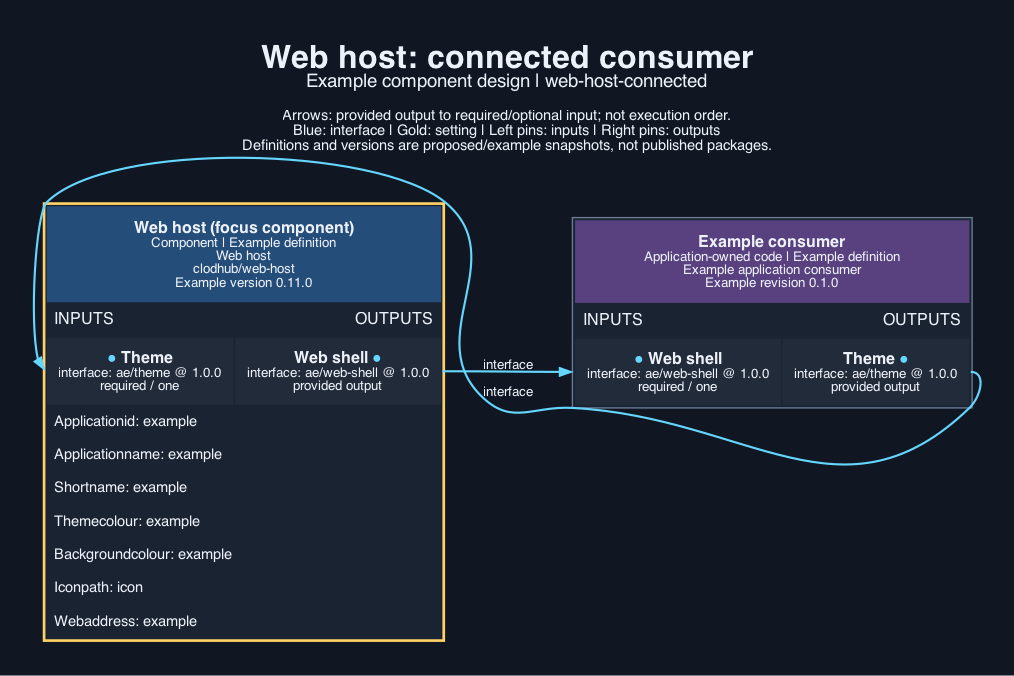
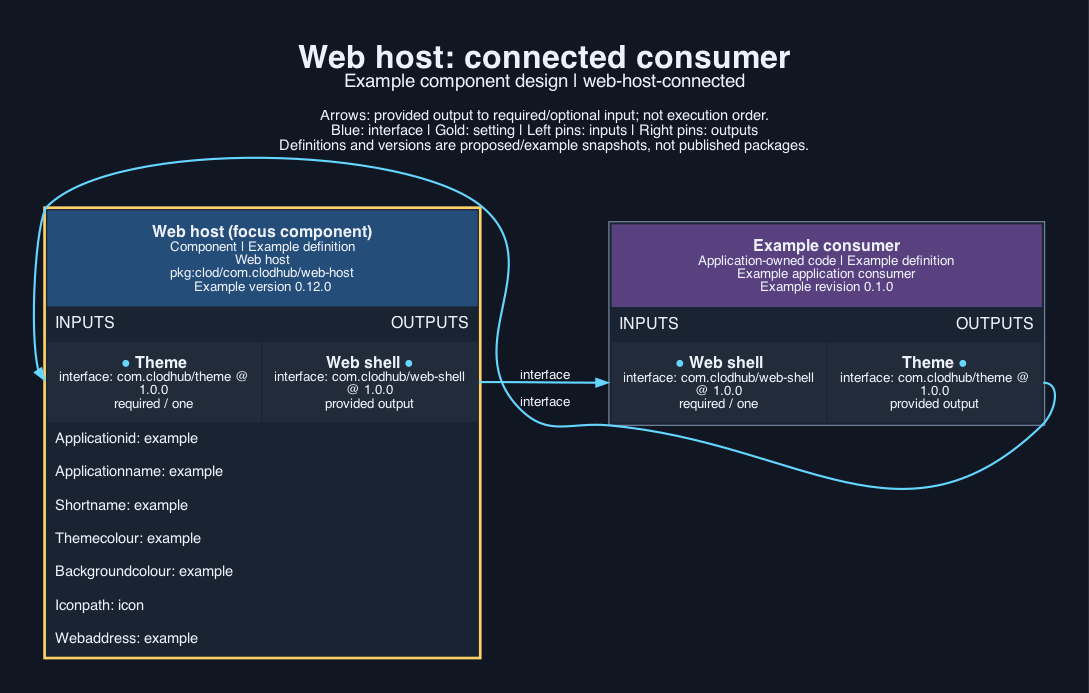
web-host 0.12.0: package URL names, clod, com.clodhub interface types

Changed region(s): [[0.0306, 0.2485, 0.9783, 0.963], [0.1223, 0.0621, 0.7643, 0.2485], [0.0, 0.9941, 1.0, 1.0]]

diff --git a/tests/web.test.ts b/tests/web.test.ts
@@ -85,7 +85,7 @@ test("headers keep the application out of search results", () => {
   assert.equal(renderHeaders(), "/*\n  X-Robots-Tag: noindex\n");
 });
 
-test("settings.ts is rendered by aepm at install from every setting, each in a quoted string", { skip: !existsSync(new URL("../component.json", import.meta.url)) && "component.json is not in this copy" }, () => {
+test("settings.ts is rendered by clod at install from every setting, each in a quoted string", { skip: !existsSync(new URL("../component.json", import.meta.url)) && "component.json is not in this copy" }, () => {
   const manifest = JSON.parse(readFileSync(new URL("../component.json", import.meta.url), "utf8"));
   assert.deepEqual(manifest.artefacts.find((item: { source: string }) => item.source === "implementation/web/settings.ts"),
     { source: "implementation/web/settings.ts", destination: "components/web-host/web/settings.ts", template: true, executable: false });

diff --git a/implementation/web/settings.ts b/implementation/web/settings.ts
@@ -1,6 +1,6 @@
 import type { WebShellSettings } from "./render.ts";
 
-// Rendered by aepm at install from the web-host settings; nothing else writes this file.
+// Rendered by clod at install from the web-host settings; nothing else writes this file.
 export const webHostSettings: WebShellSettings = {
   applicationId: "{{applicationId}}",
   applicationName: "{{applicationName}}",

diff --git a/implementation/web/render.ts b/implementation/web/render.ts
@@ -12,7 +12,7 @@ export interface WebShellSettings {
 
 export class SettingsError extends Error {}
 
-// The same grammars aepm applies to collected string settings.
+// The same grammars clod applies to collected string settings.
 const GRAMMARS = {
   identifier: /^[A-Za-z][A-Za-z0-9_]{0,63}$/,
   slug: /^[a-z][a-z0-9-]{0,63}$/,

diff --git a/INSTRUCTIONS.md b/INSTRUCTIONS.md
@@ -1,9 +1,9 @@
 # Web host instructions
 
 ## For the agent
-Select `clodhub/web-host` when the recipe's targets include `web`. Connect the `theme` requirement to the theme component so colour names resolve. Pass the answers for application name, short name, colours, icon and web address as settings. Provide the 512 and 192 pixel icons in the application's `public/` folder.
+Select `pkg:clod/com.clodhub/web-host` when the recipe's targets include `web`. Connect the `theme` requirement to the theme component so colour names resolve. Pass the answers for application name, short name, colours, icon and web address as settings. Provide the 512 and 192 pixel icons in the application's `public/` folder.
 
-- Select package `clodhub/web-host` version `0.11.0`.
+- Select package `pkg:clod/com.clodhub/web-host` version `0.12.0`.
 - Settings to configure:
   - `applicationId` (string, slug; required)
   - `applicationName` (string, label; required)
@@ -12,17 +12,17 @@ Select `clodhub/web-host` when the recipe's targets include `web`. Connect the `
   - `backgroundColour` (string, identifier; required)
   - `iconPath` (string, slug; optional; default `icon`)
   - `webAddress` (string, address; required)
-- Connect the provided `web-shell` (ae/web-shell 1.0.0) to the consumer that needs it.
-- Supply `theme` (ae/theme 1.0.0) from the component that provides it.
+- Connect the provided `web-shell` (com.clodhub/web-shell 1.0.0) to the consumer that needs it.
+- Supply `theme` (com.clodhub/theme 1.0.0) from the component that provides it.
 - No accounts or keys are needed.
 
 ## For the developer
 
 - Theme: the `theme` port is described in `interfaces/required-theme.json` (the theme component's interface document); feed theme `colourTable` into the `colours` option of `webHostConfig`. The provided interface `interfaces/web-shell.json` is an OpenRPC 1.3.2 document.
-Supply the application's own `index.html` (the body and `<script type="module" src="/src/main.ts">`), `src/main.ts`, screens and the two icon files in `public/`. Its `vite.config.ts` returns `webHostConfig({ mode, root, settings: webHostSettings, colours })` (`webHostSettings` from the installed `web/settings.ts`, which aepm renders). Then `vite build` (or `vite build --mode desktop` for the desktop wrapper). Serve `dist/` over https at the web address. Supply no accounts or keys to this component; the hosting account is configured where the files are published. To check installability open the deployed address in Chrome (Application panel, Manifest) or Safari (Share, Add to Home Screen).
+Supply the application's own `index.html` (the body and `<script type="module" src="/src/main.ts">`), `src/main.ts`, screens and the two icon files in `public/`. Its `vite.config.ts` returns `webHostConfig({ mode, root, settings: webHostSettings, colours })` (`webHostSettings` from the installed `web/settings.ts`, which clod renders). Then `vite build` (or `vite build --mode desktop` for the desktop wrapper). Serve `dist/` over https at the web address. Supply no accounts or keys to this component; the hosting account is configured where the files are published. To check installability open the deployed address in Chrome (Application panel, Manifest) or Safari (Share, Add to Home Screen).
 
 ## How to check
 From the component directory:
 
 - `node --test tests/web.test.ts` (web, required-local; tools: node 26.5)
-- `python3 -m aepm review <digest> --store STORE --policy POLICY --trusted --allow-network` checks an archive fetched with `python3 -m aepm fetch clodhub/web-host@VERSION --store STORE --from https://clodhub.com` and runs its suites.
+- `python3 -m clod review <digest> --store STORE --policy POLICY --trusted --allow-network` checks an archive fetched with `python3 -m clod fetch web-host@VERSION --store STORE --from https://clodhub.com` and runs its suites.

diff --git a/CONTRACT.md b/CONTRACT.md
@@ -23,7 +23,7 @@ The installer collects these settings and renders them into `web/settings.ts` (`
 - `implementation/web/public/sw.js` -> `components/web-host/web/public/sw.js`
 - `implementation/web/render.ts` -> `components/web-host/web/render.ts`
 - `implementation/web/runtime.ts` -> `components/web-host/web/runtime.ts`
-- `implementation/web/settings.ts` -> `components/web-host/web/settings.ts` (template: aepm renders it from the settings)
+- `implementation/web/settings.ts` -> `components/web-host/web/settings.ts` (template: clod renders it from the settings)
 - `implementation/web/package.json` -> `components/web-host/web/package.json` (marks the folder's modules as ES modules, so Vite loads them for the application's `vite.config.ts` without a warning)
 - `implementation/web/vite.ts` -> `components/web-host/web/vite.ts`
 
@@ -31,10 +31,10 @@ Dependencies: none.
 `tools.lock.json` pins verification tools: node 26.5. Licence wording remains deferred.
 
 ## Provided interfaces
-- `interfaces/web-shell.json` defines `web-shell` (ae/web-shell) version 1.0.0 as an OpenRPC 1.3.2 document: one method per exported function (`validateSettings`, `resolveColour`, `renderManifest`, `renderHeaders`, `headTags`, `webHostConfig`, `startShell`, `browserHost`, `startInstallBanner`, `bannerKind`), its parameters and result as JSON Schema 2020-12, and `SettingsError` where a setting breaks its grammar.
+- `interfaces/web-shell.json` defines `web-shell` (com.clodhub/web-shell) version 1.0.0 as an OpenRPC 1.3.2 document: one method per exported function (`validateSettings`, `resolveColour`, `renderManifest`, `renderHeaders`, `headTags`, `webHostConfig`, `startShell`, `browserHost`, `startInstallBanner`, `bannerKind`), its parameters and result as JSON Schema 2020-12, and `SettingsError` where a setting breaks its grammar.
 
 ## Required interfaces
-- `theme` (ae/theme) version 1.0.0, supplied by the recipe or application. `interfaces/required-theme.json` is a copy of the theme component's interface document; web-host uses its `colourTable` result (build time) for `themeColour` and `backgroundColour`.
+- `theme` (com.clodhub/theme) version 1.0.0, supplied by the recipe or application. `interfaces/required-theme.json` is a copy of the theme component's interface document; web-host uses its `colourTable` result (build time) for `themeColour` and `backgroundColour`.
 
 ## Integration
 The application's `vite.config.ts` returns `webHostConfig({ mode, root, settings: webHostSettings, colours })` from `web/vite.ts`, with `webHostSettings` from the installed `web/settings.ts` and `colours` the colour table of the connected theme; it may add its own fields (for example `resolve.alias`). The build then has the page head, and the web build `manifest.webmanifest`, `sw.js` and `_headers`; the desktop build (`--mode desktop`) has the head without the manifest link and writes `dist-desktop/`. The application's `index.html` holds the page body and `<script type="module" src="/src/main.ts">`. In the application's main module call `startShell(browserHost(), {desktop})` from `web/runtime.ts` once; it registers `./sw.js` and starts the install banner, and does neither when `desktop` is true. The application keeps its own screens, art, strings and its `src/main.ts` entry. `examples/consumer.ts` does both steps without a game.

diff --git a/SOURCE.md b/SOURCE.md
@@ -7,9 +7,9 @@ Reference revision: `19905b75dbea89fbfd424d67fe26c81aaed0e018`. Recipe paths are
 - `index.html` lines 3-15 (the head) -> `implementation/web/render.ts` `headTags`: title, colour, application title and icons come from the settings; `application-name` meta is added so the install banner can read the name. The page body and the entry module stay with the application's own `index.html`.
 - `vite.config.ts` lines 1-30 -> `implementation/web/vite.ts` `webHostConfig`: relative base, desktop mode and the `dist`/`dist-desktop` folders are kept; the manifest, `sw.js` and `_headers` are emitted into the web build by a Vite plugin (and served by the development server) instead of living in `public/`, so the desktop build needs no asset copy; the `livekit-client` alias (video component) and the `install-banner.js` script removal are left with the application; `VITE_APPLICATION_ID` is defined from `applicationId`.
 - `public/_headers` lines 1-2 -> `implementation/web/render.ts` `renderHeaders`: the same two lines.
-- `implementation/web/settings.ts` is new: the template aepm renders at install from the seven settings, which the application's `vite.config.ts` passes to `webHostConfig`.
+- `implementation/web/settings.ts` is new: the template clod renders at install from the seven settings, which the application's `vite.config.ts` passes to `webHostConfig`.
 - `src/main.ts` lines 120-121 (service worker registration, skipped in the desktop wrapper) -> `implementation/web/runtime.ts` `startShell`: registration result and failure are returned instead of ignored. The rest of `main.ts` (screens, store, video, update check, art) stays with the application.
 - McInPoker `web/public/install-banner.js` lines 1-85 (also `worker/src/assets/install-banner.js` in `ourapps-app/ourapps`, byte-identical; recipe `vite.config.ts` lines 19-20 and 24 refer to it but the recipe has no copy) -> `implementation/web/install-banner.ts`, a TypeScript port of the same logic: the decision logic (`bannerKind`), markup (`bannerMarkup`) and behaviour (`startInstallBanner`) are separated so they run against a fake browser; the storage key and texts are options (English texts remain the defaults; the default key changed from `ourapps-install-dismissed` to `install-banner-dismissed`); `data-ourapps-install` became `data-install-banner`.
-- Settings validation in `implementation/web/render.ts` (the aepm string grammars plus colours) is new; it has no recipe counterpart.
+- Settings validation in `implementation/web/render.ts` (the clod string grammars plus colours) is new; it has no recipe counterpart.
 
 Left behind: `wrangler.jsonc` and deployment (release pipeline), `package.json`, `tsconfig.json`, all screens and styles, the update check at `main.ts` lines 100-105, the art manifest, sounds and test scripts under `web/test/`.

diff --git a/.opencode/knowledge/00-index.md b/.opencode/knowledge/00-index.md
@@ -1,5 +1,5 @@
 # web-host ownership
 
 Repository: https://github.com/clodhub/web-host.git.
-Current code: `implementation/web/install-banner.ts`, `implementation/web/public/sw.js`, `implementation/web/render.ts`, `implementation/web/runtime.ts`, `implementation/web/settings.ts` (template rendered by aepm at install), `implementation/web/vite.ts`.
+Current code: `implementation/web/install-banner.ts`, `implementation/web/public/sw.js`, `implementation/web/render.ts`, `implementation/web/runtime.ts`, `implementation/web/settings.ts` (template rendered by clod at install), `implementation/web/vite.ts`.
 `component.json`, `tools.lock.json` and `visual/` are generated from `authoring/spec.json`; edit the spec, not the generated files. `CONTRACT.md`, `INSTRUCTIONS.md` and `SOURCE.md` are hand-written and kept on regeneration.

diff --git a/visual/output/description.md b/visual/output/description.md
@@ -1,3 +1,3 @@
 # Web host
 
-The web-host component at version 0.11.0 provides ae/web-shell version 1.0.0 to an illustrative application consumer, which in turn supplies ae/theme version 1.0.0. The 2 arrows each run from a named output to a required input of the same type and version. Setting values shown are placeholders and secrets appear only as references.
+The web-host component at version 0.12.0 provides com.clodhub/web-shell version 1.0.0 to an illustrative application consumer, which in turn supplies com.clodhub/theme version 1.0.0. The 2 arrows each run from a named output to a required input of the same type and version. Setting values shown are placeholders and secrets appear only as references.

diff --git a/.opencode/knowledge/workflow.md b/.opencode/knowledge/workflow.md
@@ -2,5 +2,5 @@
 
 Repository: `clodhub/web-host`. Licence: `Apache-2.0` (`LICENCE`, `NOTICE`).
 Suite commands (from the package root): `node --test tests/web.test.ts`.
-Review a fetched archive: `python3 -m aepm review <digest> --store STORE --policy POLICY --trusted --allow-network`.
+Review a fetched archive: `python3 -m clod review <digest> --store STORE --policy POLICY --trusted --allow-network`.
 Always run Python with `-B`; never write bytecode into the repository.
